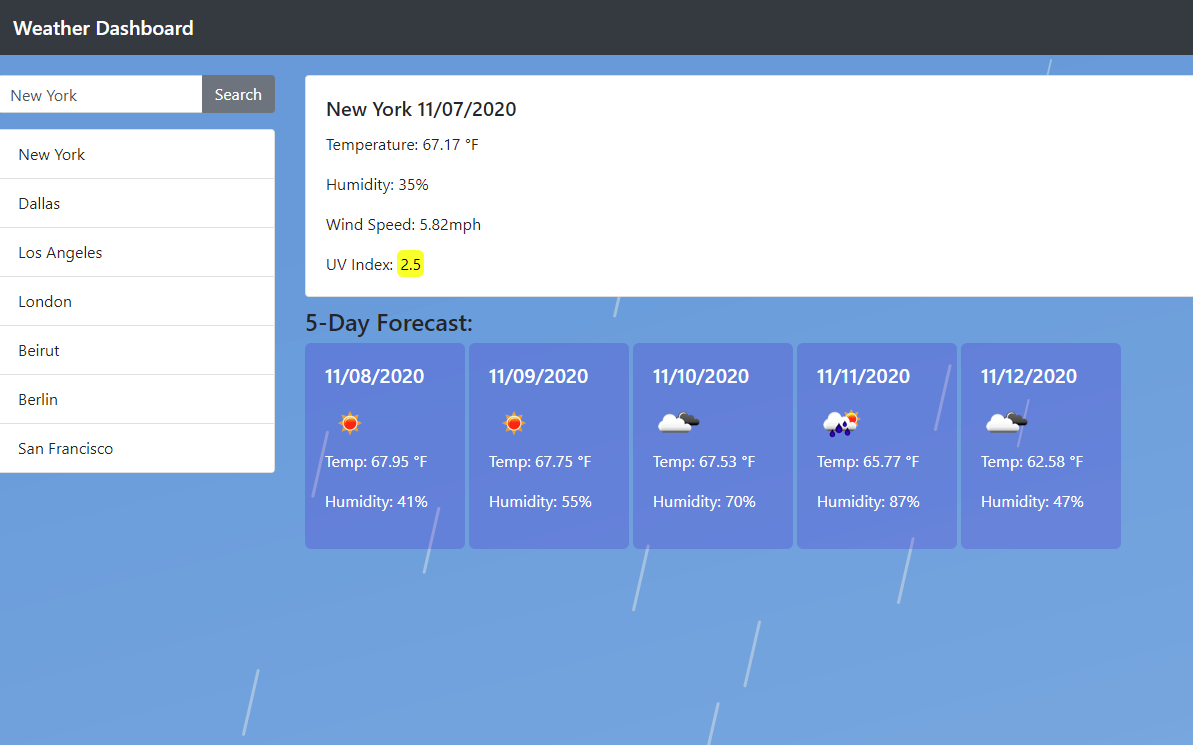
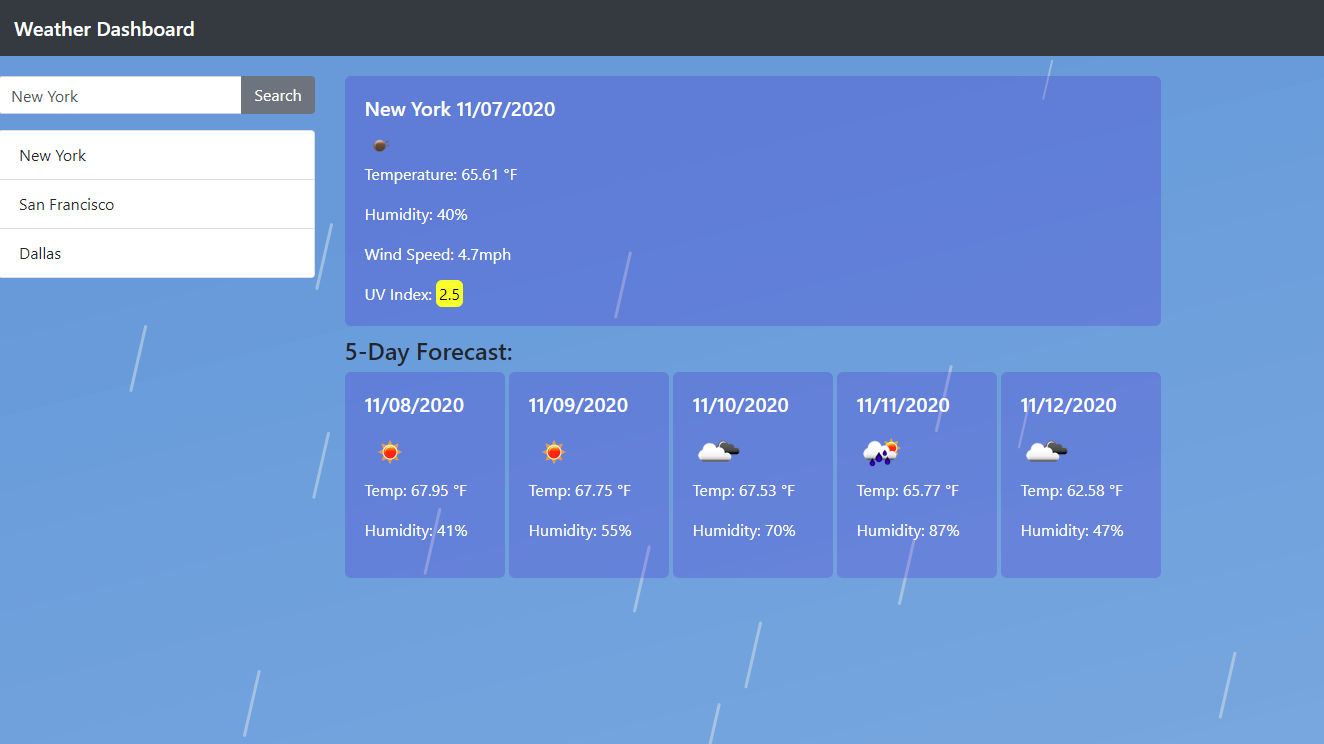
UPDATE: Tweaks to look

diff --git a/index.html b/index.html
@@ -31,9 +31,10 @@
             </form>
         </div>
         <div class="col-sm-7 col-md-8 col-lg-9" id="city-banner">
-            <div class="card" style="margin-bottom: 10px;">
+            <div class="card" style="margin-bottom: 10px;" id="city-panel">
                 <div class="card-body">
                     <h5 class="card-title" id="city-text"></h5>
+                    <img id="today-icon" src="" alt="weather-icon"></img>
                     <p class="card-text" id="temp"></p>
                     <p class="card-text" id="humidity"></p>
                     <p class="card-text" id="wind"></p>

diff --git a/assets/js/script.js b/assets/js/script.js
@@ -67,6 +67,7 @@ $(document).ready(function () {
             .then(data => {
                 let date = moment(data.dt * 1000).format("L");
                 $("#city-text").text(capitalize(query) + " " + date);
+                $("#today-icon").attr("src", "https://openweathermap.org/img/w/" + data.weather[0].icon + ".png");
                 $("#temp").text("Temperature: " + data.main.temp + " °F");
                 $("#humidity").text("Humidity: " + data.main.humidity + "%");
                 $("#wind").text("Wind Speed: " + data.wind.speed + "mph");

diff --git a/assets/css/style.css b/assets/css/style.css
@@ -6,6 +6,20 @@ body{
     background-color: rgba(112, 128, 144, 0.822);
 }
 
+/* Today city banner styling */
+
+#today-icon{
+    width: 30px;
+}
+
+#city-panel{
+    width: 51rem;
+    color: white;
+    background-color: rgba(0, 0, 205, 0.192);
+    border-radius: 6px;
+    border: transparent;
+}
+
 /* fitting uv box to uv data */
 #uv{
     border-radius: 6px;
